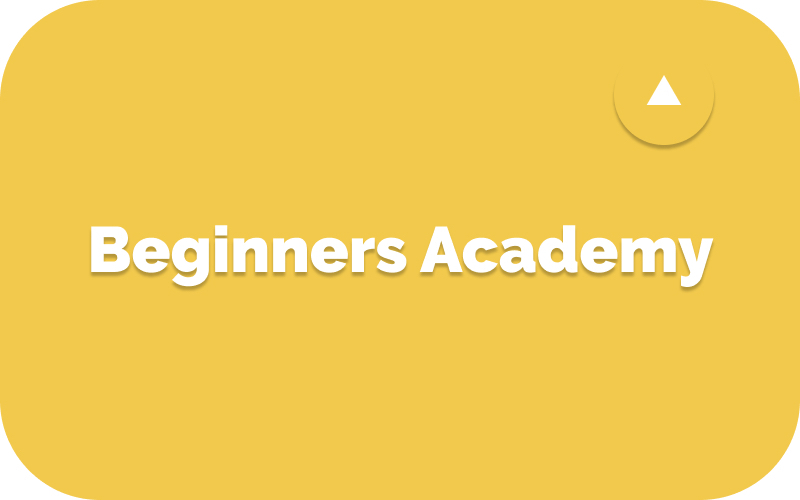
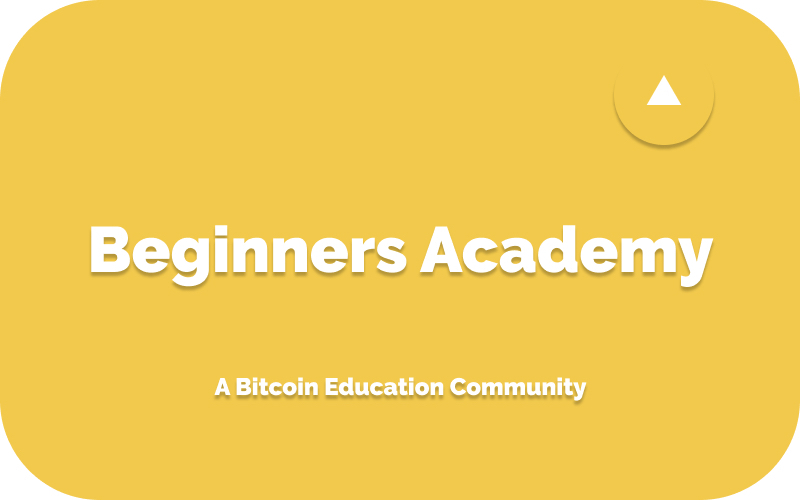
Update Beginners Card

Changed region(s): [[0.25, 0.75, 0.75, 0.81]]

diff --git a/index.html b/index.html
@@ -37,6 +37,6 @@
 </head>
 <body>
     <a href="about"><img width="500px" src="images/Beginners_Card.jpg"></a>
-    <p>Learn something new about Bitcoin everyday</p>
+    <img width="500px" src="images/Beginners_SubCard.jpg">
 </body>
 </html>
